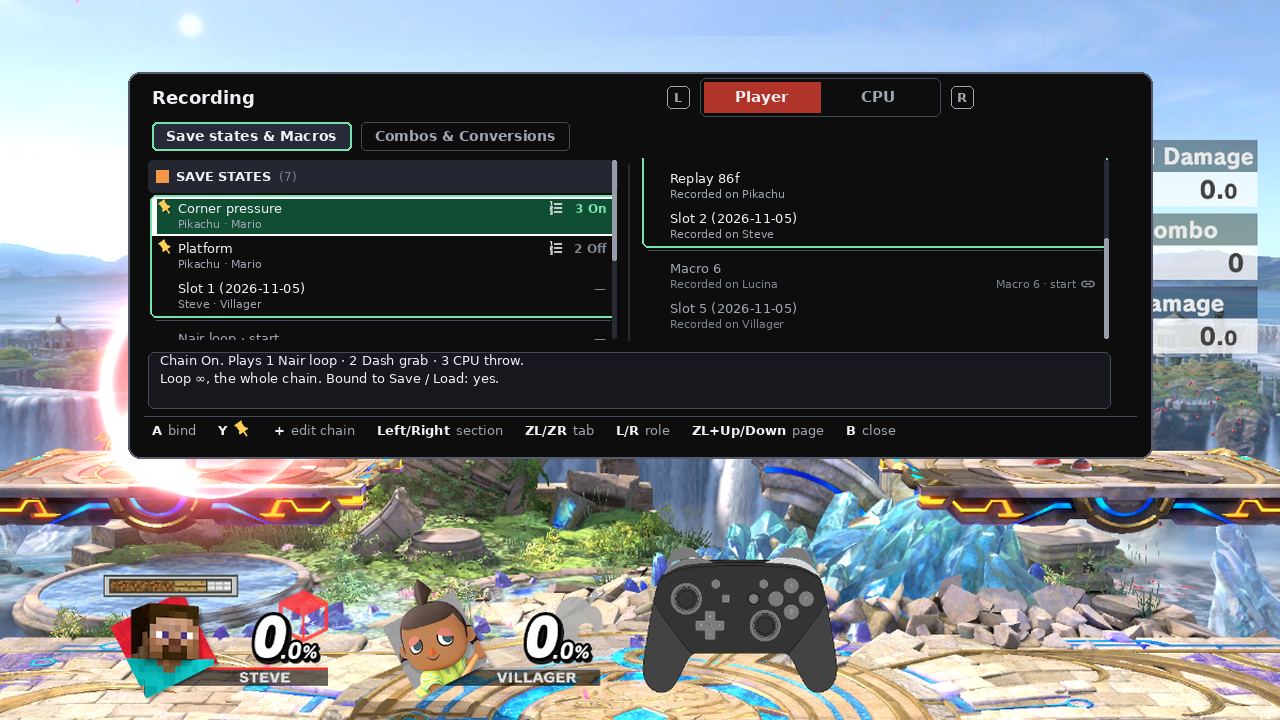
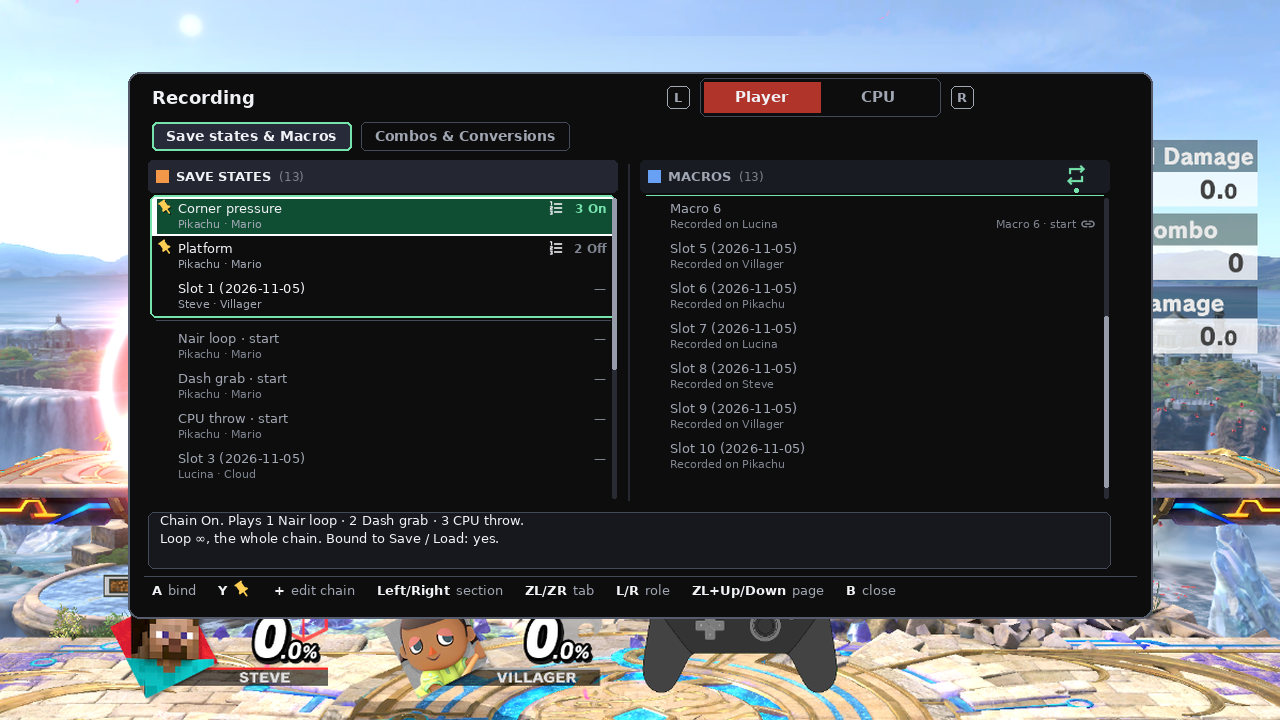
DECISIONS: RECORDING-REDESIGN revision 5.1, sticky headers and the existing mismatch prompt.
The scrolled pop-up keeps the same window and scrolls whole rows, and Switch / Keep uses the Fighter Mismatch words.

Changed region(s): [[0.0938, 0.2139, 0.9062, 0.8861], [0.4688, 0.3667, 0.5, 0.5194], [0.8125, 0.2444, 0.8438, 0.275]]

diff --git a/tools/render_recording_redesign.py b/tools/render_recording_redesign.py
@@ -2165,8 +2165,31 @@ def action_screen4(bg, crumb, rows, help1, help2, values=None, keys=None):
 R5_TABS = (("saves", "Save states & Macros"), ("combos", "Combos & Conversions"))
 
 
-def r5_rows(typ, role, focus):
+def r5_tail(typ):
+    """Extra library rows so one picture can scroll. They are the same kind of file, and only that picture draws them."""
+    if typ == "macro":
+        specs = [("slot6", "Slot 6 (2026-11-05)", "Pikachu", "1.0 s"),
+                 ("slot7", "Slot 7 (2026-11-05)", "Lucina", "1.1 s"),
+                 ("slot8", "Slot 8 (2026-11-05)", "Steve", "0.9 s"),
+                 ("slot9", "Slot 9 (2026-11-05)", "Villager", "1.4 s"),
+                 ("slot10", "Slot 10 (2026-11-05)", "Pikachu", "1.2 s"),
+                 ("slot11", "Slot 11 (2026-11-05)", "Lucina", "0.7 s")]
+        return [dict(key=k, name=n, fighter=f, role="P1", length=length, start=None, hot=False) for k, n, f, length in specs]
+    if typ == "save":
+        specs = [("slot6s", "Slot 6 (2026-11-05)", "Pikachu · Mario"),
+                 ("slot7s", "Slot 7 (2026-11-05)", "Lucina · Cloud"),
+                 ("slot8s", "Slot 8 (2026-11-05)", "Steve · Villager"),
+                 ("slot9s", "Slot 9 (2026-11-05)", "Pikachu · Mario"),
+                 ("slot10s", "Slot 10 (2026-11-05)", "Steve · Villager"),
+                 ("slot11s", "Slot 11 (2026-11-05)", "Lucina · Cloud")]
+        return [dict(key=k, name=n, fighters=f, chain=[], hot=False) for k, n, f in specs]
+    return []
+
+
+def r5_rows(typ, role, focus, extend=False):
     data = {"macro": M4, "combo": C4, "conv": V4, "save": S4}[typ]
+    if extend:
+        data = list(data) + r5_tail(typ)
     out = []
     for src in data:
         r = dict(src)
@@ -2327,6 +2350,45 @@ def r5_paste(img, section, box, scroll):
     return scroll
 
 
+def r5_paste_sticky(img, section, box, scroll, header, positions):
+    """Header stays. Rows below it move by whole rows. A row that would be cut off is left out."""
+    x0, y0, x1, y1 = box
+    header = min(int(header), section.height)
+    img.alpha_composite(section.crop((0, 0, section.width, header)), (x0, y0))
+    view = max(0, y1 - (y0 + header))
+    content = section.height - header
+    max_scroll = max(0, content - view)
+    tops = sorted(p - header for p in positions.values())
+    snapped = 0
+    for top in tops:
+        if top <= scroll and top <= max_scroll:
+            snapped = top
+    scroll = snapped
+    show = 0
+    for top in tops:
+        if top < scroll:
+            continue
+        bot = top + 40
+        if bot <= scroll + view:
+            show = bot - scroll
+        else:
+            break
+    if show > 0:
+        src = header + scroll
+        img.alpha_composite(section.crop((0, src, section.width, src + show)), (x0, y0 + header))
+    if content > view:
+        d = ImageDraw.Draw(img)
+        track_top = y0 + header + 2
+        track_bot = y1 - 2
+        track_h = max(1, track_bot - track_top)
+        d.rounded_rectangle((x1 - 6, track_top, x1 - 2, track_bot), radius=2, fill=(40, 43, 52, 255))
+        thumb = max(18, track_h * view / content)
+        span = max(1, content - view)
+        ty = track_top + (track_h - thumb) * (scroll / span)
+        d.rounded_rectangle((x1 - 6, ty, x1 - 2, ty + thumb), radius=2, fill=(150, 156, 170, 255))
+    return scroll
+
+
 def r5_tabs(d, x, y, tab, role):
     """The two tabs. CPU draws only Save states & Macros: no greyed second tab and no text."""
     labels = R5_TABS if role != "cpu" else R5_TABS[:1]
@@ -2371,7 +2433,7 @@ def r5_detail_lines(focus, role):
     if any(v["key"] == focus for v in V4):
         v = next(x for x in V4 if x["key"] == focus)
         seq = " → ".join("%d %s" % (i + 1, n) for i, n in enumerate(v["seq"]))
-        drill = "The one drill." if focus == DRILL else "Not the drill."
+        drill = "Drilling now." if focus == DRILL else "Not drilling."
         return ["Contains %s." % seq, "Streak 4 · best 9. %s" % drill]
     s = next(x for x in S4 if x["key"] == focus)
     if s.get("chain") and s.get("chain_on"):
@@ -2398,14 +2460,14 @@ def r5_loop_for(typ, role):
     return [("", LOOP[role])]
 
 
-def r5_columns(role, tab, focus, width=470):
+def r5_columns(role, tab, focus, width=470, extend=False):
     left_t, right_t = r5_pair(role, tab)
     order, link = r5_marks(focus)
     sections = {}
     positions = {}
     for typ in (left_t, right_t):
         title = {"save": "SAVE STATES", "macro": "MACROS", "conv": "CONVERSIONS", "combo": "COMBOS"}[typ]
-        img, pos = r5_section(title, typ, r5_rows(typ, role, focus), width, r5_loop_for(typ, role),
+        img, pos = r5_section(title, typ, r5_rows(typ, role, focus, extend), width, r5_loop_for(typ, role),
                               section_on=any(r["cursor"] for r in r5_rows(typ, role, focus)),
                               order=order, link=link)
         sections[typ] = img
@@ -2424,7 +2486,7 @@ def r5_foot(typ, role="player"):
     return [("A", "drill"), ("Y", "PIN")] + common
 
 
-def popup5(game, role, tab, focus, scrolls=(0, 0), view_bottom=500):
+def popup5(game, role, tab, focus, scrolls=(0, 0), view_bottom=500, sticky=False, extend=False):
     img = hide_notice4(game.copy())
     d = ImageDraw.Draw(img)
     frame = (POP[0], POP[1], POP[2], view_bottom + 118)
@@ -2432,10 +2494,20 @@ def popup5(game, role, tab, focus, scrolls=(0, 0), view_bottom=500):
     iv.text(d, (152, 98), "Recording", fnt(18, bold=True), fill=ch.M_TEXT, anchor="lm")
     role_toggle(d, 820, 82, "cpu" if role == "cpu" else "player", 15)
     r5_tabs(d, 152, 122, "saves" if role == "cpu" else tab, role)
-    left_t, right_t, sections, _pos = r5_columns(role, tab, focus, 470)
+    left_t, right_t, sections, positions = r5_columns(role, tab, focus, 470, extend)
     boxes = ((148, 158, 618, view_bottom), (640, 158, 1110, view_bottom))
     for typ, box, scroll in ((left_t, boxes[0], scrolls[0]), (right_t, boxes[1], scrolls[1])):
-        r5_paste(img, sections[typ], box, scroll)
+        if sticky:
+            if scroll < 0:
+                rows = r5_rows(typ, role, focus, extend)
+                header = HEAD_H + 2
+                for row in rows:
+                    if not row.get("hot"):
+                        scroll = positions[typ][row["key"]] - header
+                        break
+            r5_paste_sticky(img, sections[typ], box, scroll, HEAD_H + 2, positions[typ])
+        else:
+            r5_paste(img, sections[typ], box, scroll)
     d = ImageDraw.Draw(img)
     d.line((628, 164, 628, view_bottom), fill=ch.M_DIVIDER, width=2)
     r5_details(img, (148, view_bottom + 12, 1110, view_bottom + 68),
@@ -2467,18 +2539,24 @@ def popup5_stacked(game):
 
 
 def prompt5(game):
+    """The shared Fighter Mismatch screen (macro_panel::fighter). Named and clip origins use this footer."""
     img = hide_notice4(game.copy())
     d = ImageDraw.Draw(img)
-    d.rounded_rectangle((300, 150, 980, 430), radius=12, fill=(250, 250, 252, 242), outline=GOLD, width=3)
-    iv.text(d, (330, 176), "Nair loop was recorded on Pikachu", fnt(20, bold=True), fill=INK, anchor="lm")
-    iv.text(d, (330, 214), "You are playing Palutena. The recording is the inputs.", fnt(16), fill=(40, 46, 58, 255), anchor="lm")
-    iv.text(d, (330, 246), "Keep plays those inputs on Palutena.", fnt(16), fill=(40, 46, 58, 255), anchor="lm")
-    d.rounded_rectangle((330, 300, 520, 352), radius=8, fill=(230, 232, 238, 255), outline=(120, 126, 140, 255), width=2)
-    iv.text(d, (425, 326), "Switch", fnt(18, bold=True), fill=INK, anchor="mm")
-    d.rounded_rectangle((550, 300, 760, 352), radius=8, fill=GREEN, outline=GREEN, width=2)
-    iv.text(d, (655, 326), "Keep", fnt(18, bold=True), fill=INK, anchor="mm")
-    iv.text(d, (330, 378), "Asked once for the whole chain. Nothing is hidden or refused.", fnt(14),
-            fill=(70, 76, 88, 255), anchor="lm")
+    x0, y0, x1, y1 = 360, 168, 920, 392
+    d.rounded_rectangle((x0, y0, x1, y1), radius=10, fill=WIN, outline=(86, 92, 108, 255), width=2)
+    iv.text(d, (x0 + 24, y0 + 28), "Fighter Mismatch", fnt(18, bold=True), fill=ch.M_TEXT, anchor="lm")
+    rows = ("Keep current fighter", "Switch to recorded fighter")
+    for i, label in enumerate(rows):
+        top = y0 + 58 + i * 44
+        box = (x0 + 16, top, x1 - 16, top + 36)
+        if i == 0:
+            d.rectangle(box, fill=ch.M_FOCUS)
+            d.rectangle(box, outline=WHITE, width=2)
+            d.rectangle((box[0], box[1], box[0] + 4, box[3]), fill=WHITE)
+        iv.text(d, (x0 + 36, top + 18), label, fnt(16), fill=ch.M_TEXT, anchor="lm")
+    d.line((x0 + 16, y1 - 78, x1 - 16, y1 - 78), fill=ch.M_RULE, width=1)
+    iv.text(d, (x0 + 24, y1 - 52), "Recorded Pikachu · current CPU Villager", fnt(14), fill=ch.M_TEXT, anchor="lm")
+    iv.text(d, (x0 + 24, y1 - 28), "Inputs are the same either way. A chooses, B cancels.", fnt(14), fill=ch.M_GROUP, anchor="lm")
     return img
 
 
@@ -2513,12 +2591,8 @@ def page5(menu, selected, tab, focus, help1, help2):
 def main_r5(menu, game):
     P = "RECORDING-REDESIGN-r5-"
     save(popup5(game, "player", "saves", "pressure"), P + "popup-save")
-    # Macros scrolled to the library; saves stay at the top.
-    macro_img, macro_pos = r5_section(
-        "MACROS", "macro", r5_rows("macro", "player", "pressure"), 470, r5_loop_for("macro", "player"),
-        section_on=False, order=r5_marks("pressure")[0], link=r5_marks("pressure")[1])
-    library_top = macro_pos["macro6"]
-    save(popup5(game, "player", "saves", "pressure", scrolls=(0, library_top - 4), view_bottom=340),
+    # Same window as the save picture. Headers stay. Macro rows move by whole rows.
+    save(popup5(game, "player", "saves", "pressure", scrolls=(0, -1), sticky=True, extend=True),
          P + "popup-scrolled")
     save(popup5(game, "player", "saves", "nair"), P + "popup-macro")
     save(popup5(game, "player", "combos", "corner"), P + "popup-conversion")

diff --git a/docs/decisions/RECORDING-REDESIGN.md b/docs/decisions/RECORDING-REDESIGN.md
@@ -15,7 +15,15 @@ The operator, 2026-11-06, on revision 4: keep what revision 4 got right, includi
 - **The Recording page uses the same split.** The left column is Save states & Macros, Combos & Conversions, Replays, Options.
 - Revision 4's link diagram, legend, loop mark, five strips, conversion bar, action screens, keyboard, crop, shortcuts, and respawn picture stay. Its pop-up and Recording-page pictures are replaced by the revision 5 ones.
 
-## Revision 4
+## Revision 5.1
+
+The primary's review: the layout, the tabs, the in-place numbers, and the inline questions stay. Three pictures change.
+
+- The scrolled pop-up is the same window as the save pop-up. The SAVE STATES and MACROS headers stay put, including the loop chip. Only the rows move, and a row is never cut in half. Each section keeps its scrollbar.
+- The Switch / Keep picture is the existing Fighter Mismatch screen: the title, *Keep current fighter*, *Switch to recorded fighter*, and the footer the named-macro and replay prompts already use. No Palutena Training frame is in the phase 23 frames, so this picture keeps Steve and Villager and the prompt names Villager, the CPU on screen. The operator's example, a Pikachu macro practised on Palutena, is the same screen. Asking once for a chain, and that nothing is hidden or refused, are caption notes.
+- The conversion strip says "Drilling now."
+
+
 
 The operator, 2026-11-06, on revision 3: "the menu is a good start … Its not clear from the images how linking happens, what's linked to what, and the loop is on pages where it doesnt apply. The first draft you gave had a bigger window with groups and seemed more intuitive." Then: "the loop icon … should be drawn from an svg or something similar or native."
 
@@ -89,7 +97,7 @@ The pop-up is one window over the match, so its size can be judged against the f
 
 ![The macros have scrolled. The saves have not](RECORDING-REDESIGN-r5-popup-scrolled.png)
 
-*Same cursor. The macro column has moved down to the library. The save column is still at Corner pressure.*
+*The same window as the picture above. The headers stay, including the loop chip. The macro rows have moved; the save rows have not. Both scrollbars stay, and every row that shows is whole.*
 
 ### A macro under the cursor
 
@@ -145,7 +153,7 @@ A row with no start save, such as Replay 86f, has no link chip.
 
 ![Switch or Keep](RECORDING-REDESIGN-r5-switch-keep.png)
 
-*Nair loop was recorded on Pikachu. The fighter now is Palutena. Keep plays the inputs on Palutena. Nothing is hidden or refused.*
+*The existing Fighter Mismatch screen. This frame is Steve and Villager, so the prompt names Villager, the CPU on screen. The operator's example is the same screen for a Pikachu macro practised on Palutena. Asked once for the whole chain. Nothing is hidden or refused.*
 
 ### Your call — Q4
 

diff --git a/docs/DECISIONS.md b/docs/DECISIONS.md
@@ -1307,6 +1307,8 @@ inline where applicable".
 
 **Revision 5** is the same document, updated. Two tabs sit under the role toggle: Save states & Macros, and Combos & Conversions. CPU has only the first. The two sections scroll on their own. The pictures put them side by side, and one stacked picture keeps the Links panel as the other option. A focused row's links show as numbers and chips on the other column, and the remaining lines sit in a strip above the footer. Recorded on is plain information. A Pikachu macro practised on Palutena raises Switch / Keep, and Keep plays the inputs. The Recording page uses the same split. Q1–Q11 sit next to the pictures they concern. The link diagram, legend, icons, strips, conversion bar, and action screens stay.
 
+**Revision 5.1** is the same document. The scrolled pop-up keeps the save pop-up's window. Section headers stay put while whole rows scroll, and each section keeps its scrollbar. The Switch / Keep picture uses the existing Fighter Mismatch words. This frame is Steve and Villager, so the prompt names Villager. The conversion strip says "Drilling now."
+
 ### INTRO-ONCE · The Training intro notices — ordered (2026-11-05)
 
 **Operator 2026-11-05 ~21:3xZ:** "please disable the intro tutorial messages when we enter training. they should only
